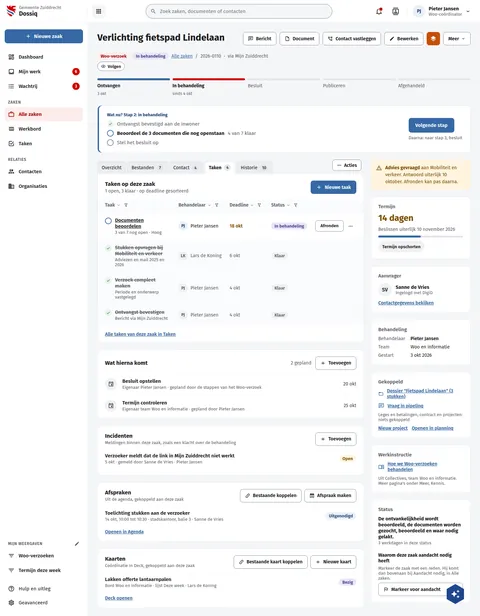
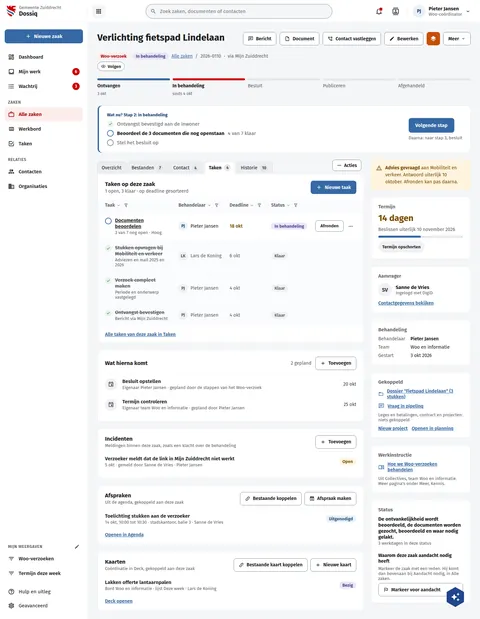
board(dossiq): DqZaakTaken draws "Wat hierna komt" as a ruled list card
The planned actions were drawn 4px apart with 8px under the last row. The app
draws every ruled list in a page card with its rows flush and 20px under the
last, as DqOrganisatie "Tickets" does, so the card read 216 live against 208
and Incidenten, Afspraken and Kaarten sat 10 to 15px lower on r45. The rows
now start 12px under the header, flush, 20px above the card's foot. Board
1849 -> 1857.

Assisted-by: ClaudeCode:claude-opus-5-5

diff --git a/preview/screens/boards/DqZaakTaken.html b/preview/screens/boards/DqZaakTaken.html
@@ -283,8 +283,8 @@ a{color:var(--sc-primary, #3669a5)}a:hover{color:var(--sc-primary-deep, #234a78)
               </div>
               <div style="padding: 6px 22px 8px; font-size: 14px"><a href="#" style="font-weight: 600">Alle taken van deze zaak in Taken</a></div>
             </section>
-            <section style="background: #ffffff; border: 1px solid var(--sc-work-line, #e4e6ea); border-radius: 12px; padding: 20px 22px 8px; display: flex; flex-direction: column; gap: 4px">
-              <div style="display: flex; justify-content: space-between; align-items: center; gap: 12px; margin-bottom: 8px"><h2 style="margin: 0; font-size: 17px; font-weight: 700">Wat hierna komt</h2><span style="display: inline-flex; align-items: center; gap: 12px"><span style="font-size: 14px; color: var(--sc-work-muted, #5e6168)">2 gepland</span><button type="button" style="flex: none; display: inline-flex; align-items: center; gap: 8px; height: 40px; padding: 0 14px; border: 1px solid var(--sc-work-field, #828a95); border-radius: 8px; background: #ffffff; font: 600 14px var(--sc-font, 'Fira Sans'), sans-serif; color: var(--sc-work-ink, #1b1c1d)"><svg width="16" height="16" viewbox="0 0 24 24" fill="currentColor" aria-hidden="true"><path d="M19,13H13V19H11V13H5V11H11V5H13V11H19V13Z"></path></svg>Toevoegen</button></span></div>
+            <section style="background: #ffffff; border: 1px solid var(--sc-work-line, #e4e6ea); border-radius: 12px; padding: 20px 22px; display: flex; flex-direction: column">
+              <div style="display: flex; justify-content: space-between; align-items: center; gap: 12px; margin-bottom: 12px"><h2 style="margin: 0; font-size: 17px; font-weight: 700">Wat hierna komt</h2><span style="display: inline-flex; align-items: center; gap: 12px"><span style="font-size: 14px; color: var(--sc-work-muted, #5e6168)">2 gepland</span><button type="button" style="flex: none; display: inline-flex; align-items: center; gap: 8px; height: 40px; padding: 0 14px; border: 1px solid var(--sc-work-field, #828a95); border-radius: 8px; background: #ffffff; font: 600 14px var(--sc-font, 'Fira Sans'), sans-serif; color: var(--sc-work-ink, #1b1c1d)"><svg width="16" height="16" viewbox="0 0 24 24" fill="currentColor" aria-hidden="true"><path d="M19,13H13V19H11V13H5V11H11V5H13V11H19V13Z"></path></svg>Toevoegen</button></span></div>
               
                 <div style="display: flex; flex-wrap: wrap; gap: 8px 16px; align-items: center; padding: 12px 0; border-top: 1px solid var(--sc-work-soft, #eef0f3)">
                   <span style="width: 36px; height: 36px; flex: none; border-radius: 18px; background: var(--sc-work-chip, #f0f1f3); color: var(--sc-work-text, #3d4047); display: flex; align-items: center; justify-content: center"><svg width="18" height="18" viewbox="0 0 24 24" fill="currentColor" aria-hidden="true"><path d="M12 12H17V17H12V12M19 3H18V1H16V3H8V1H6V3H5C3.9 3 3 3.9 3 5V19C3 20.1 3.9 21 5 21H19C20.1 21 21 20.1 21 19V5C21 3.9 20.1 3 19 3M19 5V7H5V5H19M5 19V9H19V19H5Z"></path></svg></span>

diff --git a/screens-src/zuiddrecht/DqZaakTaken.dc.html b/screens-src/zuiddrecht/DqZaakTaken.dc.html
@@ -109,8 +109,8 @@ a{color:#3669a5}a:hover{color:#234a78}
               </div>
               <div style="padding: 6px 22px 8px; font-size: 14px"><a href="#" style="font-weight: 600">Alle taken van deze zaak in Taken</a></div>
             </section>
-            <section style="background: #ffffff; border: 1px solid #e4e6ea; border-radius: 12px; padding: 20px 22px 8px; display: flex; flex-direction: column; gap: 4px">
-              <div style="display: flex; justify-content: space-between; align-items: center; gap: 12px; margin-bottom: 8px"><h2 style="margin: 0; font-size: 17px; font-weight: 700">Wat hierna komt</h2><span style="display: inline-flex; align-items: center; gap: 12px"><span style="font-size: 14px; color: #5e6168">2 gepland</span><button type="button" style="flex: none; display: inline-flex; align-items: center; gap: 8px; height: 40px; padding: 0 14px; border: 1px solid #828a95; border-radius: 8px; background: #ffffff; font: 600 14px 'Fira Sans', sans-serif; color: #1b1c1d"><svg width="16" height="16" viewBox="0 0 24 24" fill="currentColor" aria-hidden="true"><path d="M19,13H13V19H11V13H5V11H11V5H13V11H19V13Z"></path></svg>Toevoegen</button></span></div>
+            <section style="background: #ffffff; border: 1px solid #e4e6ea; border-radius: 12px; padding: 20px 22px; display: flex; flex-direction: column">
+              <div style="display: flex; justify-content: space-between; align-items: center; gap: 12px; margin-bottom: 12px"><h2 style="margin: 0; font-size: 17px; font-weight: 700">Wat hierna komt</h2><span style="display: inline-flex; align-items: center; gap: 12px"><span style="font-size: 14px; color: #5e6168">2 gepland</span><button type="button" style="flex: none; display: inline-flex; align-items: center; gap: 8px; height: 40px; padding: 0 14px; border: 1px solid #828a95; border-radius: 8px; background: #ffffff; font: 600 14px 'Fira Sans', sans-serif; color: #1b1c1d"><svg width="16" height="16" viewBox="0 0 24 24" fill="currentColor" aria-hidden="true"><path d="M19,13H13V19H11V13H5V11H11V5H13V11H19V13Z"></path></svg>Toevoegen</button></span></div>
               <sc-for list="{{ planned }}" as="p" hint-placeholder-count="2">
                 <div style="display: flex; flex-wrap: wrap; gap: 8px 16px; align-items: center; padding: 12px 0; border-top: 1px solid #eef0f3">
                   <span style="width: 36px; height: 36px; flex: none; border-radius: 18px; background: #f0f1f3; color: #3d4047; display: flex; align-items: center; justify-content: center"><svg width="18" height="18" viewBox="0 0 24 24" fill="currentColor" aria-hidden="true"><path d="M12 12H17V17H12V12M19 3H18V1H16V3H8V1H6V3H5C3.9 3 3 3.9 3 5V19C3 20.1 3.9 21 5 21H19C20.1 21 21 20.1 21 19V5C21 3.9 20.1 3 19 3M19 5V7H5V5H19M5 19V9H19V19H5Z"></path></svg></span>
